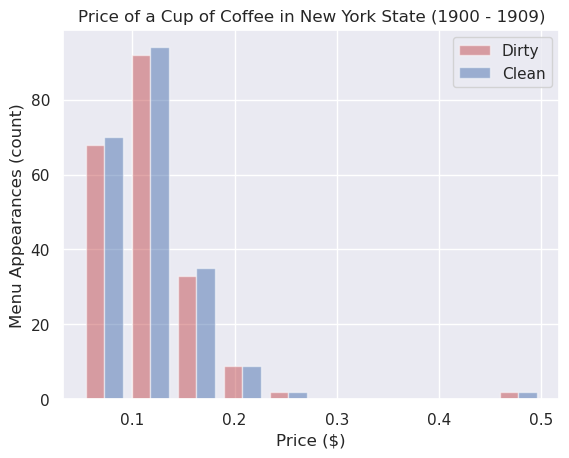
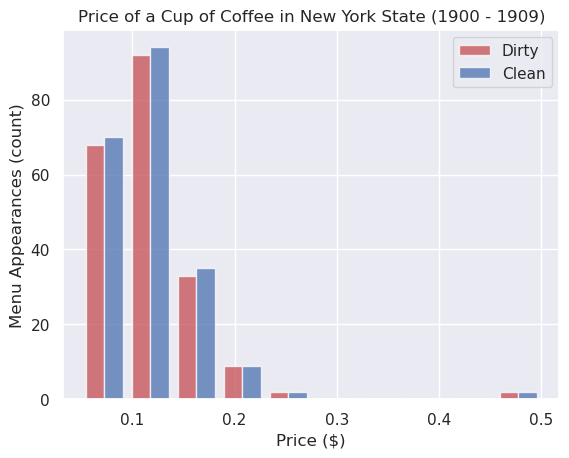
Set common plot alpha value

Changed region(s): [[0.1494, 0.0917, 0.5378, 0.8865], [0.8067, 0.0917, 0.8664, 0.1834], [0.8664, 0.8559, 0.9561, 0.8865]]

diff --git a/src/explore.py b/src/explore.py
@@ -37,7 +37,7 @@ def explore_menu_table(menu_df: pd.DataFrame) -> None:
     )
 
     sns.set_theme()
-    bar_df.plot(kind='barh', stacked=True, color=['green', 'grey', 'lightgrey'], xlabel="Number of Records", title="Applicable Menu Table Attributes")
+    bar_df.plot(kind='barh', stacked=True, color=['green', 'grey', 'lightgrey'], xlabel="Number of Records", title="Applicable Menu Table Attributes", alpha=0.75)
     plt.savefig("doc/menu-bar-chart.png", bbox_inches='tight')
     plt.close()
 
@@ -46,7 +46,7 @@ def explore_menu_table(menu_df: pd.DataFrame) -> None:
 
     assert menu_df[menu_df['decade'] == 1900.0]['decade'].size == menu_df[date_1900s]['date'].size, "Invalid date range assumption"
 
-    menu_df['decade'].plot(kind='hist', x='date', xlabel="Decade", ylabel="Count", title="Number of Menus By Decade", bins=range(1850, 2011, 10))
+    menu_df['decade'].plot(kind='hist', x='date', xlabel="Decade", ylabel="Count", title="Number of Menus By Decade", bins=range(1850, 2011, 10), alpha=0.75)
     plt.savefig("doc/menu-date-histogram.png", bbox_inches='tight')
     plt.close()
 

diff --git a/src/main.py b/src/main.py
@@ -153,7 +153,7 @@ def save_menu_profile(dirty: List[int], clean: List[int]) -> None:
 @timer
 def save_dish_profile(dirty: int, clean: int) -> None:
     sns.set_theme()
-    plt.bar(x=['Dirty Data', 'Clean Data'], height=[dirty, clean])
+    plt.bar(x=['Dirty Data', 'Clean Data'], height=[dirty, clean], alpha=0.75)
     plt.title('Dishes Synonymous with "Cup of Coffee"')
     plt.savefig("doc/dish-name-coffee-bar-chart.png", bbox_inches='tight')
     plt.close()
@@ -161,7 +161,7 @@ def save_dish_profile(dirty: int, clean: int) -> None:
 @timer
 def save_query_result(dirty: List[float], clean: List[float]) -> None:
     sns.set_theme()
-    plt.hist([dirty, clean], color=['r','b'], alpha=0.5)
+    plt.hist([dirty, clean], color=['r','b'], alpha=0.75)
     plt.title("Price of a Cup of Coffee in New York State (1900 - 1909)")
     plt.xlabel("Price ($)")
     plt.ylabel("Menu Appearances (count)")
